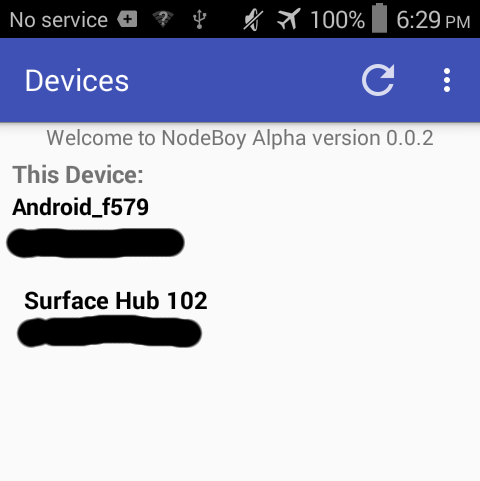
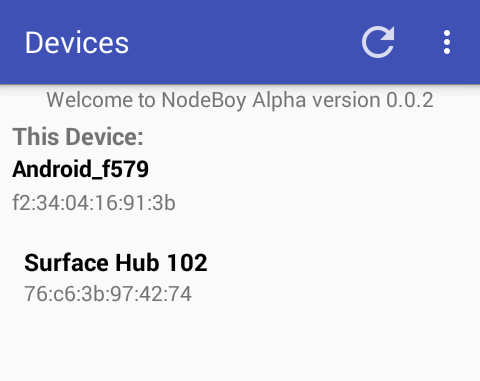
Remove redaction from image, it doesn't matter if we have MAC addresses in the pic

diff --git a/README.md b/README.md
@@ -10,6 +10,6 @@
 
 ## Screenshots
 
-- (MAC Addresses Redacted)
+- Device Selection Screen
 
 ![Screenshot Device Selection](img/screenshot-device-screen.png)
